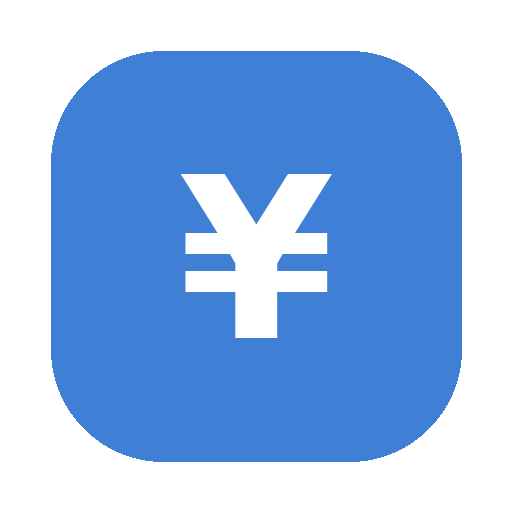
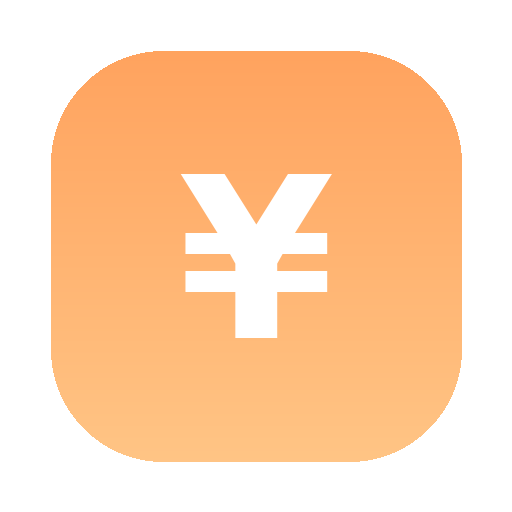
配色をオレンジ系の淡いパステルカラーに変更
紫〜ピンクのグラデーションから、オレンジ〜アプリコット系の
パステルカラーに全体の配色を差し替え。背景・カード影・ボタン・
タブの配色トークンを更新し、manifest.jsonのテーマカラーと
アプリアイコンも同じオレンジ系グラデーションに合わせた。
「2人の支出」の紫、支出の赤、収入の緑といった意味づけの
色分けは維持しつつ、全体的に彩度を落として柔らかい印象にした。

Claude-Session: https://claude.ai/code/session_01R92e7DyYr4HqJKgSEGG71S

diff --git a/index.html b/index.html
@@ -5,7 +5,7 @@
 <meta name="viewport" content="width=device-width, initial-scale=1.0">
 <title>かんたん家計簿</title>
 <link rel="manifest" href="manifest.json">
-<meta name="theme-color" content="#3f7fd6">
+<meta name="theme-color" content="#FF9F5A">
 <link rel="icon" href="icons/icon-192.png">
 <link rel="apple-touch-icon" href="icons/apple-touch-icon.png">
 <meta name="apple-mobile-web-app-capable" content="yes">
@@ -13,23 +13,23 @@
 <meta name="apple-mobile-web-app-title" content="家計簿">
 <style>
   :root {
-    --bg: #f2edff;
+    --bg: #fff8f0;
     --card-bg: #ffffff;
-    --primary: #7C4DFF;
-    --primary-dark: #5E35B1;
-    --accent: #FF4081;
-    --text: #2b2f36;
-    --muted: #7c7f96;
-    --border: #ece7fb;
-    --danger: #F4436C;
+    --primary: #FF9F5A;
+    --primary-dark: #E17A2E;
+    --accent: #FFD59E;
+    --text: #3a332c;
+    --muted: #9c8b7a;
+    --border: #f5e1cc;
+    --danger: #FF6B4A;
   }
   * { box-sizing: border-box; }
   body {
     margin: 0;
     font-family: "Hiragino Kaku Gothic ProN", "Meiryo", "Segoe UI", sans-serif;
     background:
-      radial-gradient(circle at 10% 0%, #ffe3f3 0%, transparent 45%),
-      radial-gradient(circle at 90% 15%, #e0e7ff 0%, transparent 45%),
+      radial-gradient(circle at 10% 0%, #ffe9d2 0%, transparent 45%),
+      radial-gradient(circle at 90% 15%, #fff3e0 0%, transparent 45%),
       var(--bg);
     background-attachment: fixed;
     color: var(--text);
@@ -47,15 +47,15 @@
     margin: 0 0 20px;
     padding: 14px 20px;
     border-radius: 999px;
-    background: linear-gradient(135deg, #7C4DFF, #FF4081);
-    box-shadow: 0 8px 20px -6px rgba(124, 77, 255, 0.55);
+    background: linear-gradient(135deg, #FF9F5A, #FFC98A);
+    box-shadow: 0 8px 20px -6px rgba(255, 159, 90, 0.5);
     letter-spacing: 0.02em;
   }
   .card {
     background: var(--card-bg);
     border-radius: 20px;
     padding: 20px;
-    box-shadow: 0 6px 20px -8px rgba(124, 77, 255, 0.18);
+    box-shadow: 0 6px 20px -8px rgba(255, 159, 90, 0.15);
     margin-bottom: 20px;
     border: 1px solid var(--border);
   }
@@ -71,7 +71,7 @@
     display: flex;
     gap: 6px;
     border-radius: 999px;
-    background: #f3f0fb;
+    background: #fff2e2;
     padding: 5px;
     margin-bottom: 4px;
   }
@@ -86,21 +86,21 @@
     transition: transform 0.12s ease, box-shadow 0.12s ease;
   }
   .type-toggle .type-btn.active[data-type="支出"] {
-    background: linear-gradient(135deg, #FF6B9D, var(--danger));
+    background: linear-gradient(135deg, #FFAB91, var(--danger));
     color: #fff;
-    box-shadow: 0 4px 12px -4px rgba(244, 67, 108, 0.6);
+    box-shadow: 0 4px 12px -4px rgba(255, 107, 74, 0.5);
     transform: translateY(-1px);
   }
   .type-toggle .type-btn.active[data-type="収入"] {
-    background: linear-gradient(135deg, #4ADE80, #2E7D32);
+    background: linear-gradient(135deg, #AEDDB0, #6FBF73);
     color: #fff;
-    box-shadow: 0 4px 12px -4px rgba(46, 125, 50, 0.5);
+    box-shadow: 0 4px 12px -4px rgba(111, 191, 115, 0.45);
     transform: translateY(-1px);
   }
   .type-toggle .type-btn.active[data-type="2人の支出"] {
-    background: linear-gradient(135deg, #B388FF, #8E24AA);
+    background: linear-gradient(135deg, #D9B8E8, #AB6BC4);
     color: #fff;
-    box-shadow: 0 4px 12px -4px rgba(142, 36, 170, 0.5);
+    box-shadow: 0 4px 12px -4px rgba(171, 107, 196, 0.4);
     transform: translateY(-1px);
   }
 
@@ -143,7 +143,7 @@
   .cat-manage-link {
     display: block;
     background: none;
-    color: var(--accent);
+    color: var(--primary-dark);
     font-size: 0.8rem;
     padding: 6px 0 0;
     text-align: left;
@@ -209,7 +209,7 @@
     border: 2px solid var(--border);
     border-radius: 12px;
     font-size: 1rem;
-    background: #fbfaff;
+    background: #fffaf5;
     color: var(--text);
     transition: border-color 0.15s ease;
   }
@@ -231,9 +231,9 @@
     color: #fff;
     padding: 14px;
     font-size: 1.05rem;
-    box-shadow: 0 8px 18px -6px rgba(124, 77, 255, 0.55);
+    box-shadow: 0 8px 18px -6px rgba(255, 159, 90, 0.55);
   }
-  .submit-btn:hover { transform: translateY(-1px); box-shadow: 0 10px 22px -6px rgba(124, 77, 255, 0.65); }
+  .submit-btn:hover { transform: translateY(-1px); box-shadow: 0 10px 22px -6px rgba(255, 159, 90, 0.65); }
   .submit-btn:active { transform: translateY(0); }
 
   .summary-grid {
@@ -278,7 +278,7 @@
   }
   tbody tr:last-child td { border-bottom: none; }
   tbody tr { transition: background 0.15s ease; }
-  tbody tr:hover { background: #faf8ff; }
+  tbody tr:hover { background: #fff6ec; }
   .amount-cell {
     text-align: right;
     font-variant-numeric: tabular-nums;
@@ -304,7 +304,7 @@
     font-weight: 700;
     border-radius: 999px;
   }
-  .delete-btn:hover { background: #ffe3ea; }
+  .delete-btn:hover { background: #ffe4d9; }
   .empty {
     text-align: center;
     color: var(--muted);
@@ -407,12 +407,12 @@
     margin-right: auto;
     padding: 6px 14px;
     border-radius: 999px;
-    box-shadow: 0 3px 10px -4px rgba(124, 77, 255, 0.25);
+    box-shadow: 0 3px 10px -4px rgba(255, 159, 90, 0.25);
   }
   .person-bar strong { color: var(--primary-dark); }
   .person-bar button {
     background: none;
-    color: var(--accent);
+    color: var(--primary-dark);
     font-size: 0.78rem;
     padding: 2px 6px;
     font-weight: 700;
@@ -421,7 +421,7 @@
   .name-modal-overlay {
     position: fixed;
     inset: 0;
-    background: rgba(60, 30, 90, 0.55);
+    background: rgba(120, 65, 20, 0.5);
     display: flex;
     align-items: center;
     justify-content: center;
@@ -434,7 +434,7 @@
     padding: 24px 20px;
     max-width: 360px;
     width: 100%;
-    box-shadow: 0 20px 50px -12px rgba(94, 53, 177, 0.5);
+    box-shadow: 0 20px 50px -12px rgba(225, 122, 46, 0.4);
   }
   .name-modal h2 { margin-top: 0; }
   .name-modal p {
@@ -449,7 +449,7 @@
     margin-bottom: 16px;
   }
   .name-option-btn {
-    background: linear-gradient(135deg, #EDE7FF, #FFE3F0);
+    background: linear-gradient(135deg, #FFF0DE, #FFE3C2);
     color: var(--primary-dark);
     padding: 12px;
     border-radius: 14px;
@@ -475,10 +475,10 @@
   }
 
   .shared-card {
-    border: 2px solid #8E24AA33;
-    background: linear-gradient(160deg, #fff, #faf3ff);
+    border: 2px solid #AB6BC433;
+    background: linear-gradient(160deg, #fff, #fbf3fc);
   }
-  .shared-card h2 { color: #8E24AA; }
+  .shared-card h2 { color: #AB6BC4; }
 
   .bar-chart-wrap {
     overflow-x: auto;
@@ -557,7 +557,7 @@
         <button type="button" class="type-btn" data-type="収入">収入</button>
         <button type="button" class="type-btn" data-type="2人の支出">2人の支出</button>
       </div>
-      <p class="full" id="shared-hint" style="display:none; color:#8E24AA; font-size:0.78rem; margin:-4px 0 0;">
+      <p class="full" id="shared-hint" style="display:none; color:#AB6BC4; font-size:0.78rem; margin:-4px 0 0;">
         入力した金額は半分ずつ、お二人それぞれの個人の家計簿に自動で登録されます。
       </p>
       <p class="shared-warning" id="shared-warning" style="display:none;"></p>
@@ -1435,7 +1435,7 @@
       rect.setAttribute('width', String(barWidth));
       rect.setAttribute('height', String(barHeight));
       rect.setAttribute('rx', '4');
-      rect.setAttribute('fill', '#8E24AA');
+      rect.setAttribute('fill', '#AB6BC4');
       sharedBarChart.appendChild(rect);
 
       const valueText = document.createElementNS('http://www.w3.org/2000/svg', 'text');
